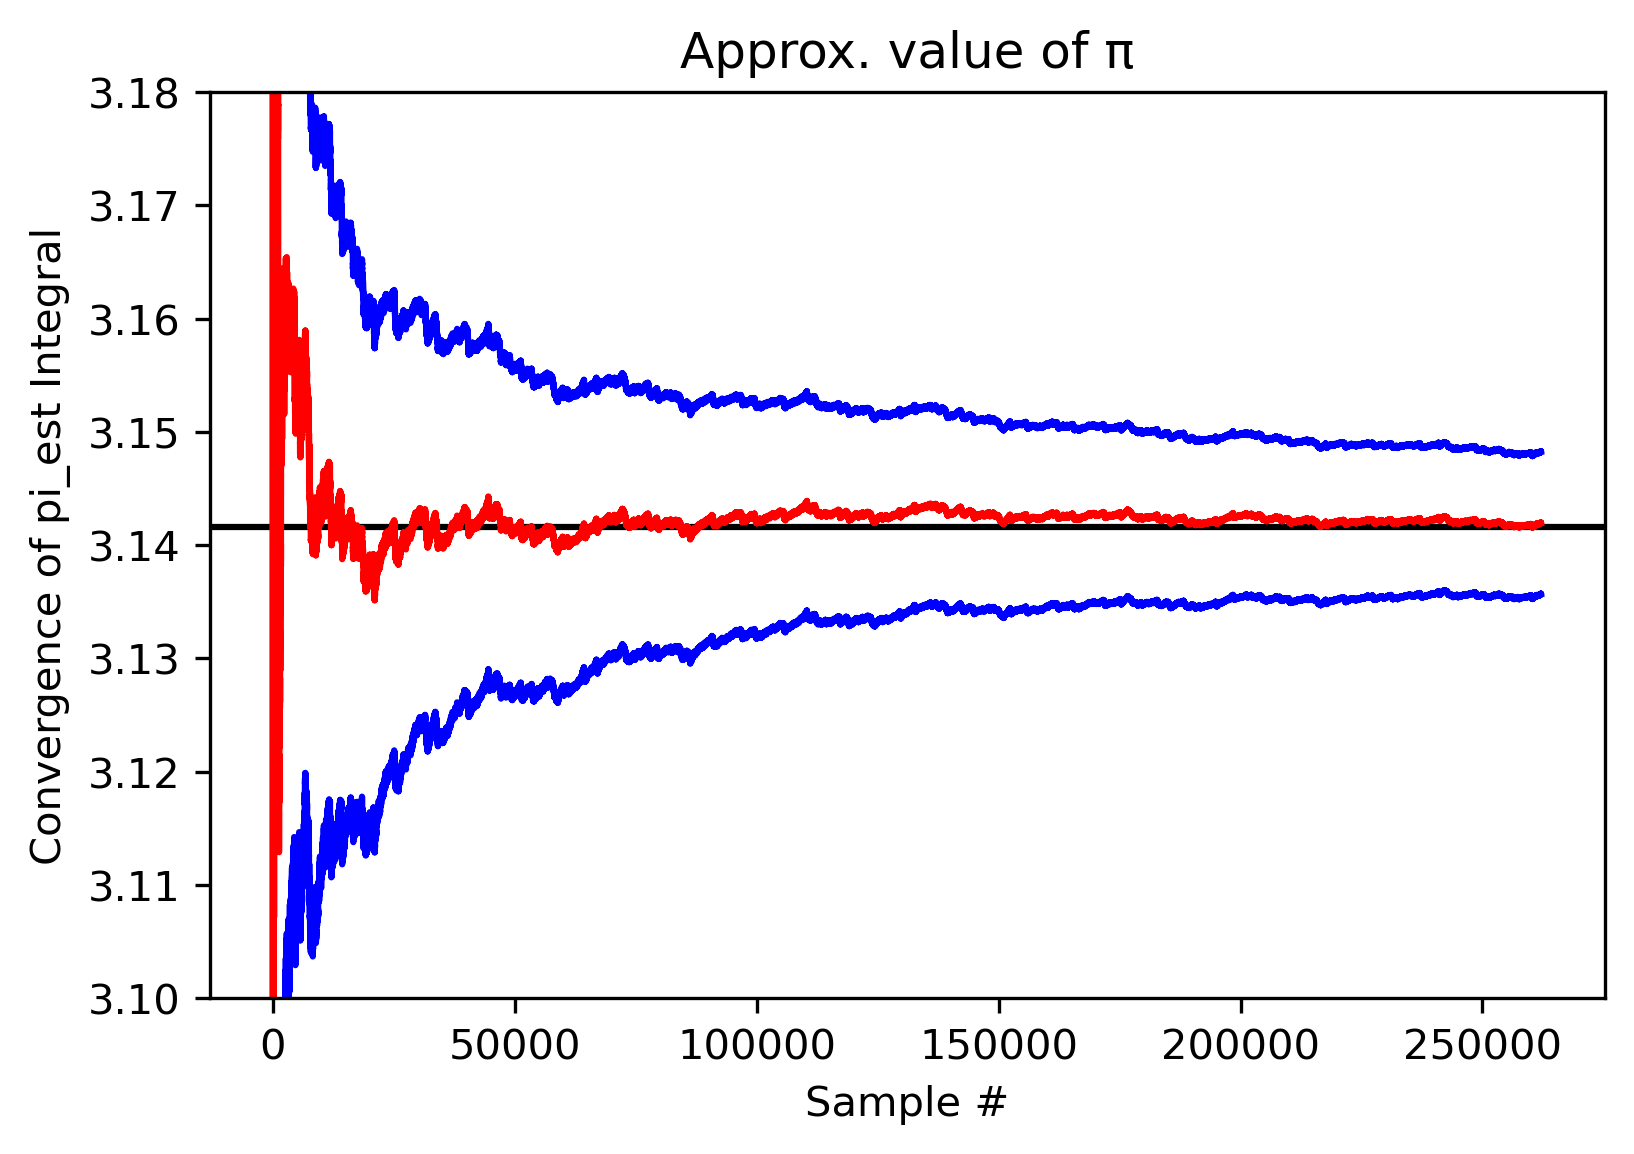
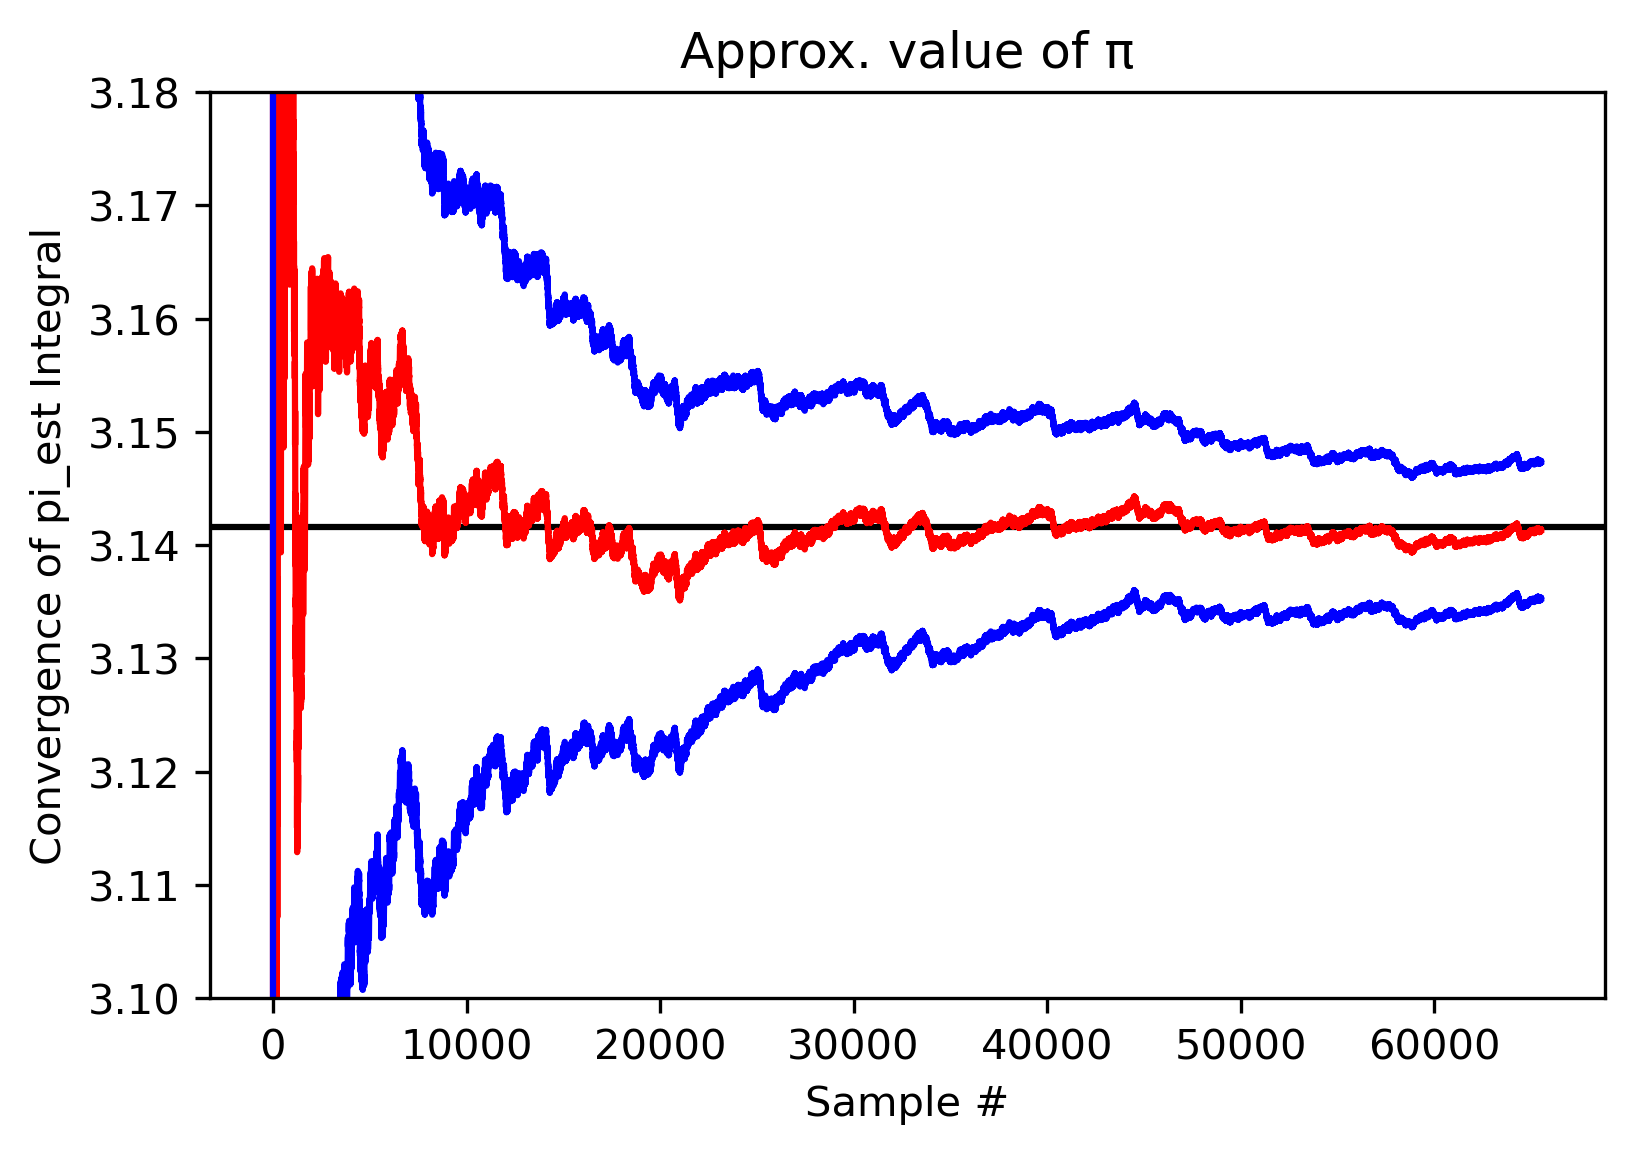
Update integration statistics for sobol sampling

diff --git a/Monaco/integration_statistics.py b/Monaco/integration_statistics.py
@@ -1,22 +1,30 @@
 # integration_statistics.py
 
 import numpy as np
+from scipy.optimize import root_scalar
 from typing import Union
 from Monaco.gaussian_statistics import pct2sig
 
 def integration_error(nums         : list[float],
-                      volume       : float     = 1,  # By default, returns an unscaled error
-                      runningError : bool      = False,
-                      conf         : float     = 0.95,
+                      volume       : float            = 1,  # By default, returns an unscaled error
+                      conf         : float            = 0.95,
+                      dimension    : Union[None, int] = None, # required only for samplemethod='sobol'
+                      samplemethod : str              = 'random', # 'random' or 'sobol'
+                      runningError : bool             = False,
                       ) -> Union[float, list[float]]:
     
+    integration_args_check(error=None, volume=volume, stdev=None, conf=conf, samplemethod=samplemethod, dimension=dimension)
+
     n = len(nums)
     if n == 1:
         error1sig = volume
     
     elif not runningError:
         stdev = np.std(nums, ddof=1)
-        error1sig = volume*stdev/np.sqrt(n)
+        if samplemethod == 'random':
+            error1sig = volume*stdev/np.sqrt(n)
+        elif samplemethod == 'sobol':
+            error1sig = volume*stdev*np.log(n)**dimension/n
     
     else:
         # Use Welford's algorithm to calculate the running variance
@@ -29,31 +37,69 @@ def integration_error(nums         : list[float],
         variances = np.zeros(n)
         variances[1:] = S[1:]/np.arange(1, n)
         stdevs = np.sqrt(variances)
+                
+        if samplemethod == 'random':
+            error1sig = volume*stdevs/np.sqrt(np.arange(1, n+1))
+        elif samplemethod == 'sobol':
+            error1sig = volume*stdevs*np.log(np.arange(1, n+1))**dimension/np.arange(1, n+1)
         
-        stdevs[stdevs == 0] = max(stdevs) # Leading zeros will throw off plots, fill with reasonable dummy data
-        error1sig = volume*stdevs/np.sqrt(np.arange(1, n+1))
+        error1sig[error1sig == 0] = max(error1sig) # Leading zeros will throw off plots, fill with reasonable dummy data
+
     
     error = error1sig*pct2sig(conf)
     return error
 
 
-def integration_n_from_err(error  : float,
-                           volume : float,
-                           stdev  : float, 
-                           conf   : float = 0.95,
+def integration_n_from_err(error        : float,
+                           volume       : float,
+                           stdev        : float, 
+                           conf         : float            = 0.95,
+                           dimension    : Union[None, int] = None, # required only for samplemethod='sobol'
+                           samplemethod : str              = 'random', # 'random' or 'sobol'
                            ) -> int:
     # We generally do not know a-priori what the standard deviation will be, so
     # best practice is to set to the max range of values on the interval, and 
     # then calculate a better stdev on a lower number of cases, which can then 
     # be subsituted in here to bootleg a more efficient computation.
-    # Note that sobol sampling should converge much faster than this, at a rate
-    # of log(n)^d/n, rather than the 1/sqrt(n) given by random sampling. For 
-    # sobol sampling, remember to round n to the next power of 2. 
-    # helper_functions.next_power_of_2(n) can help with this 
+    # For sobol sampling, remember to round n to the next power of 2 for balance. 
+    # helper_functions.next_power_of_2(n) can help with this. 
     
-    n = int(np.ceil((volume*pct2sig(conf)*stdev/error)**2))
+    integration_args_check(error=error, volume=volume, stdev=stdev, conf=conf, samplemethod=samplemethod, dimension=dimension)
     
+    if samplemethod == 'random':
+        n = (volume*pct2sig(conf)*stdev/error)**2
+    elif samplemethod == 'sobol':
+        def f(n):
+            return volume*stdev*pct2sig(conf)*np.log(n)**dimension/n - error
+        try:
+            rootResults = root_scalar(f, method='brentq', bracket=[2**8, 2**31-1], xtol=0.1, maxiter=int(1e3))
+            n = rootResults.root
+        except Exception:
+            raise ValueError(f"Cannot reach error tolerance of ±{error}. Adjust error tolerance or fall back to samplemethod='random'")
+        
+    n = int(np.ceil(n))
     return n
+
+
+def integration_args_check(error        : float,
+                           volume       : float,
+                           stdev        : float, 
+                           conf         : float,
+                           samplemethod : str,
+                           dimension    : Union[None, int],
+                          ):
+    if (not error is None) and (error < 0):
+        raise ValueError(f"{error=} must be positive")
+    if volume <= 0:
+        raise ValueError(f"{volume=} must be positive")
+    if (not stdev is None) and (stdev < 0):
+        raise ValueError(f"{stdev=} must be positive")
+    if not 0 < conf < 1:
+        raise ValueError(f"{conf=} must be between 0 and 1")
+    if samplemethod not in ('random', 'sobol'):
+        raise ValueError(f"{samplemethod=} must be either 'random', or 'sobol'")
+    if samplemethod == 'sobol' and (dimension is None or dimension < 1):
+        raise ValueError(f'{dimension=} must be a positive integer defined for {samplemethod=}')
 
 
 def max_variance(low  : float,
@@ -66,6 +112,6 @@ def max_variance(low  : float,
 def max_stdev(low  : float,
               high : float,
               ) -> float:
-    maxstd = np.sqrt(max_variance(high=high, low=low))
+    maxstd = np.sqrt(max_variance(high=high, low=low))  # maxstd = (high-low)/2
     return maxstd
 

diff --git a/test/test_integration_statistics.py b/test/test_integration_statistics.py
@@ -4,12 +4,15 @@ import pytest
 from Monaco.integration_statistics import integration_error, integration_n_from_err, max_variance, max_stdev
 
 def test_integration_error():
-    assert integration_error([1, 0, 2], runningError=False, conf=0.95) == pytest.approx(1.1315857)
-    assert integration_error([1, 0, 2], runningError=True , conf=0.95) == pytest.approx([1.9599639, 0.9799819, 1.1315857])
+    assert integration_error([1, 0, 2], conf=0.95, samplemethod='random', runningError=False) == pytest.approx(1.1315857)
+    assert integration_error([1, 0, 2], conf=0.95, samplemethod='random', runningError=True) == pytest.approx([1.1315857, 0.9799819, 1.1315857])
+    assert integration_error([1, 0, 2], conf=0.95, dimension=1, samplemethod='sobol', runningError=False) == pytest.approx(0.7177468)
+    assert integration_error([1, 0, 2], conf=0.95, dimension=1, samplemethod='sobol', runningError=True) == pytest.approx([0.7177468, 0.4803176, 0.7177468])
 
 
 def test_integration_n_from_err():
-    assert integration_n_from_err(error=0.01, volume=1, stdev=1, conf=0.95) == 38415
+    assert integration_n_from_err(error=0.01, volume=1, stdev=1, conf=0.95, samplemethod='random') == 38415
+    assert integration_n_from_err(error=0.01, volume=1, dimension=1, stdev=1, conf=0.95, samplemethod='sobol') == 1424
 
 
 def test_max_variance():
@@ -26,32 +29,46 @@ def test_max_stdev():
 if __name__ == '__main__':
     import numpy as np
     import matplotlib.pyplot as plt
+    from Monaco.mc_sampling import mc_sampling
 
-    print(integration_error([1, 0, 2])) # Expected: 1.1315857
-    print(integration_error([1, 0, 2], runningError=True, conf=0.95))       # Expected: [1.9599639, 0.9799819, 1.1315857]
-    print(integration_n_from_err(error=0.01, volume=1, stdev=1, conf=0.95)) # Expected: 38415
+    print(integration_error([1, 0, 2], conf=0.95, samplemethod='random', runningError=False))                  # Expected: 1.1315857
+    print(integration_error([1, 0, 2], conf=0.95, samplemethod='random', runningError=True))                   # Expected: [1.1315857, 0.9799819, 1.1315857]
+    print(integration_error([1, 0, 2], conf=0.95, dimension=1, samplemethod='sobol', runningError=False))      # Expected: 0.7177468
+    print(integration_error([1, 0, 2], conf=0.95, dimension=1, samplemethod='sobol', runningError=True))       # Expected: [0.7177468, 0.4803176, 0.7177468]
+    print(integration_n_from_err(error=0.01, volume=1, dimension=1, stdev=1, conf=0.95, samplemethod='sobol')) # Expected: 1424
+    print(integration_n_from_err(error=0.01, volume=1, stdev=1, conf=0.95, samplemethod='random'))             # Expected: 38415
     print(max_variance(low=0, high=1))  # Expected: 0.25
     print(max_stdev(low=0, high=1))     # Expected: 0.5
     
-    n = int(1e4)
+    n = int(2**15)
     conf = 0.95
-    generator = np.random.RandomState(seed=25113604)
+    seed = 2510604
     midpoint = 5
-    x = generator.randint(0, 2*midpoint+1, size=n)
+    x1 = mc_sampling(ndraws=n, method='random', ninvar=1, seed=seed)*midpoint*2
+    x2 = mc_sampling(ndraws=n, method='sobol', ninvar=1, seed=seed)*midpoint*2
     
-    cummean = np.cumsum(x)/np.arange(1 ,n+1)
-    err = integration_error(x, volume=1, runningError=True, conf=0.95)
+    cummean1 = np.cumsum(x1)/np.arange(1 ,n+1)
+    cummean2 = np.cumsum(x2)/np.arange(1 ,n+1)
+    err1 = integration_error(x1, volume=1, conf=conf, samplemethod='random', runningError=True)
+    err2 = integration_error(x2, volume=1, conf=conf, dimension=1, samplemethod='sobol', runningError=True)
     plt.figure()
     plt.hlines(midpoint, 0, n, 'k')
-    plt.plot(cummean, 'r')
-    plt.plot(cummean+err, 'b')
-    plt.plot(cummean-err, 'b')
-    plt.ylim((midpoint*0.75, midpoint*1.25))
+    plt.plot(cummean1, 'r')
+    plt.plot(cummean1+err1, 'b')
+    plt.plot(cummean1-err1, 'b')
+    plt.plot(cummean2, 'darkred')
+    plt.plot(cummean2+err2, 'darkblue')
+    plt.plot(cummean2-err2, 'darkblue')
+    plt.ylim((midpoint*0.9, midpoint*1.1))
     plt.ylabel(f'{round(conf*100, 2)}% Confidence Integration Bounds')
     
     plt.figure()
-    plt.loglog(err, 'r')
-    plt.plot(np.abs(cummean - midpoint), 'b')
+    plt.plot(np.abs(cummean1 - midpoint), 'r')
+    plt.plot(np.abs(cummean2 - midpoint), 'darkred')
+    plt.loglog(err1, 'b')
+    plt.loglog(err2, 'darkblue')
     plt.ylabel(f'{round(conf*100, 2)}% Confidence Absolute Error')
+    plt.text(1e1, 1e-4, 'Sobol Sampling')
+    plt.text(1e3, 1e0, 'Random Sampling')
     
 #'''

diff --git a/examples/integration/integration_example_monte_carlo_sim.py b/examples/integration/integration_example_monte_carlo_sim.py
@@ -28,29 +28,30 @@ fcns ={'preprocess' :integration_example_preprocess,   \
 xrange = [-1, 1]
 yrange = [-1, 1]
 totalArea = (xrange[1] - xrange[0])*(yrange[1] - yrange[0])
-
-# Maximum Error bound:
-# Sobol sampling will give much faster convergence than random. But for random 
-# sampling, we can determine how many samples we would need to reach an absolute
-# error of 0.01 at 95% confidence. 
-# A-priori, we do not know the standard deviation, so best practice is to use 
-# the maximum possible gives the low and high values in your range, and the 
-# a-posteriori error will be better than this since the actual variance is known.
-# You can bootstrap the standard deviation by running a shorter sim and extracting
-# stdev from there
-error = 0.01
-conf = 0.95
-stdev = max_stdev(low=0, high=1)
-nIfRandom = integration_n_from_err(error=error, volume=totalArea, stdev=stdev, conf=conf)
-print(f'Number of samples needed to reach an error ≤ ±{error} at {round(conf*100, 2)}% confidence if using random sampling: {nIfRandom}')
+dimension = 2
 
 # Integration best practices:
 savecasedata = False                 # File I/O will crush performance, so recommended not to save case data
 samplemethod = 'sobol'               # Use 'sobol' over 'sobol_random' for a speedup, since all our dists are uniform
-ndraws = next_power_of_2(nIfRandom)  # The sobol methods need to be a power of 2 for best performance and balance
 firstcaseisnom = False               # Since we want a power of 2, we should not run a 'nominal' case which would add 1
 
-seed=12362397
+# Maximum Error bound:
+# Sobol sampling will give much faster convergence than random.
+# A-priori, we do not know the standard deviation, so best practice is to use 
+# the maximum possible gives the low and high values in your range, and the 
+# a-posteriori error will be better than this since the actual variance is known.
+# You can bootstrap the standard deviation by running a shorter sim and extracting
+# stdev from there.
+error = 0.01
+conf = 0.95
+stdev = max_stdev(low=0, high=1)
+print(f'Maximum possible standard deviation: {stdev:0.3f}')
+nRandom = integration_n_from_err(error=error, volume=totalArea, stdev=stdev, conf=conf, samplemethod='random')
+nSobol  = integration_n_from_err(error=error, volume=totalArea, stdev=stdev, conf=conf, dimension=dimension, samplemethod='sobol')
+print(f'Number of samples needed to reach an error ≤ ±{error} at {round(conf*100, 2)}% confidence if using random vs sobol sampling: {nRandom} vs {nSobol}')
+ndraws = next_power_of_2(nSobol)  # The sobol methods need to be a power of 2 for best performance and balance
+
+seed=123639
 
 def integration_example_monte_carlo_sim():
 
@@ -62,9 +63,10 @@ def integration_example_monte_carlo_sim():
     sim.runSim()
     
     underCurvePct = sum(sim.mcoutvars['pi_est'].nums)/ndraws # Note that (True,False) vals are automatically valmapped to the nums (1,0)
-    err = integration_error(sim.mcoutvars['pi_est'].nums, volume=totalArea, runningError=False, conf=conf)
-
-    resultsstr = f'π ≈ {underCurvePct*totalArea:0.5f}, n = {ndraws}, {round(conf*100, 2)}% error = ±{err:0.5f}'
+    err = integration_error(sim.mcoutvars['pi_est'].nums, volume=totalArea, runningError=False, conf=conf, dimension=dimension, samplemethod=samplemethod)
+    stdev = np.std(sim.mcoutvars['pi_est'].nums, ddof=1)
+    
+    resultsstr = f'π ≈ {underCurvePct*totalArea:0.5f}, n = {ndraws}, {round(conf*100, 2)}% error = ±{err:0.5f}, stdev={stdev:0.3f}'
     print(resultsstr)
     
     '''
@@ -75,9 +77,9 @@ def integration_example_monte_carlo_sim():
     ax.axis('equal')
     plt.title(resultsstr)
     
-    fig, ax = mc_plot_integration_convergence(sim.mcoutvars['pi_est'], refval=np.pi, volume=totalArea, conf=0.95, title='Approx. value of π')
+    fig, ax = mc_plot_integration_convergence(sim.mcoutvars['pi_est'], refval=np.pi, volume=totalArea, conf=0.95, title='Approx. value of π', dimension=dimension, samplemethod=samplemethod)
     ax.set_ylim((3.10, 3.18))
-    fig, ax = mc_plot_integration_error(sim.mcoutvars['pi_est'], refval=np.pi, volume=totalArea, conf=0.95, title='Approx. error of π')
+    fig, ax = mc_plot_integration_error(sim.mcoutvars['pi_est'], refval=np.pi, volume=totalArea, conf=0.95, title='Approx. error of π', dimension=dimension, samplemethod=samplemethod)
     #'''
     
     return sim

diff --git a/Monaco/mc_plot.py b/Monaco/mc_plot.py
@@ -385,12 +385,14 @@ def mc_plot_cov_corr(matrix    : np.ndarray,
 
 
 
-def mc_plot_integration_convergence(mcoutvar : MCOutVar,
-                                    volume   : float,
-                                    refval   : Union[int, float]  = None,
-                                    conf     : float              = 0.95,
-                                    ax       : Union[None, Axes]  = None, 
-                                    title    : str                = '',
+def mc_plot_integration_convergence(mcoutvar     : MCOutVar,
+                                    volume       : float,
+                                    refval       : Union[int, float] = None,
+                                    conf         : float             = 0.95,
+                                    dimension    : int               = None,
+                                    samplemethod : str               = 'random', # 'random' or 'sobol'
+                                    ax           : Union[None, Axes] = None, 
+                                    title        : str               = '',
                                     ):
     fig, ax = manage_axis(ax, is3d=False)
 
@@ -398,7 +400,7 @@ def mc_plot_integration_convergence(mcoutvar : MCOutVar,
         ax.axhline(refval, color='k')
 
     cummean = volume*np.cumsum(mcoutvar.nums)/np.arange(1, mcoutvar.ncases+1)
-    err = integration_error(nums=mcoutvar.nums, volume=volume, runningError=True, conf=conf)
+    err = integration_error(nums=mcoutvar.nums, volume=volume, conf=conf, dimension=dimension, samplemethod=samplemethod, runningError=True)
     ax.plot(cummean,'r')
     ax.plot(cummean+err, 'b')
     ax.plot(cummean-err, 'b')
@@ -411,17 +413,19 @@ def mc_plot_integration_convergence(mcoutvar : MCOutVar,
 
 
 
-def mc_plot_integration_error(mcoutvar : MCOutVar,
-                              volume   : float,
-                              refval   : float,
-                              conf     : float              = 0.95,
-                              ax       : Union[None, Axes]  = None, 
-                              title    : str                = '',
+def mc_plot_integration_error(mcoutvar     : MCOutVar,
+                              volume       : float,
+                              refval       : float,
+                              conf         : float             = 0.95,
+                              dimension    : int               = None,
+                              samplemethod : str               = 'random', # 'random' or 'sobol'
+                              ax           : Union[None, Axes] = None, 
+                              title        : str               = '',
                               ):
     fig, ax = manage_axis(ax, is3d=False)
 
     cummean = volume*np.cumsum(mcoutvar.nums)/np.arange(1, mcoutvar.ncases+1)
-    err = integration_error(nums=mcoutvar.nums, volume=volume, runningError=True, conf=conf)
+    err = integration_error(nums=mcoutvar.nums, volume=volume, conf=conf, dimension=dimension, samplemethod=samplemethod, runningError=True)
     ax.loglog(err, 'b')
     ax.plot(np.abs(cummean - refval), 'r')
     

diff --git a/Monaco/mc_sampling.py b/Monaco/mc_sampling.py
@@ -11,7 +11,7 @@ def mc_sampling(ndraws     : int,
                 ninvar     : int = None,
                 ninvar_max : int = None,
                 seed       : int = np.random.get_state()[1][0],
-                ) -> list[float]:
+                ) -> np.ndarray:
     if ninvar_max is None:
         ninvar_max = ninvar
 

diff --git a/docs/sampling_methods.md b/docs/sampling_methods.md
@@ -48,4 +48,5 @@ What sampling method should you use? ```sobol_random``` has been shown in litera
 * [Roberts, Martin. "The Unreasonable Effectiveness of Quasirandom Sequences." Extreme Learning, 25 April 2018](http://extremelearning.com.au/unreasonable-effectiveness-of-quasirandom-sequences/)
 * [Perrier, Hélène, et al. "Sequences with low‐discrepancy blue‐noise 2‐D projections." Computer Graphics Forum. Vol. 37. No. 2. 2018.](https://onlinelibrary.wiley.com/doi/abs/10.1111/cgf.13366)
 * [Owen, Art B. "On dropping the first Sobol'point." arXiv preprint arXiv:2008.08051 (2020).](https://arxiv.org/abs/2008.08051)
+* [Morokoff, William J., and Russel E. Caflisch. "Quasi-random sequences and their discrepancies." SIAM Journal on Scientific Computing 15.6 (1994): 1251-1279.](https://epubs.siam.org/doi/pdf/10.1137/0915077))
 * [Chrisman, Lonnie. "Latin Hypercube vs. Monte Carlo Sampling." Analytica, 23 July 2014](https://lumina.com/latin-hypercube-vs-monte-carlo-sampling/)
